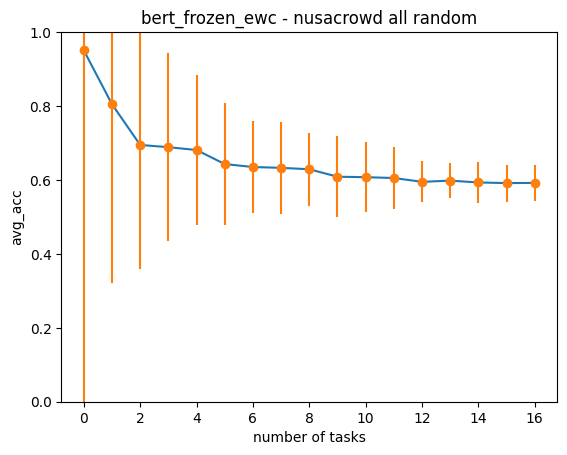
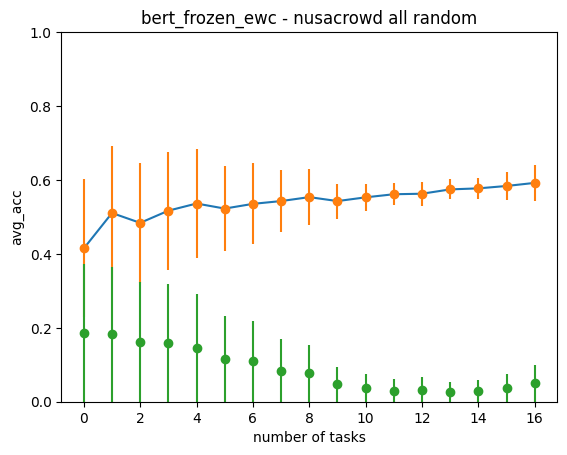
(FIXED) viz for combined backbones in 1 graph

diff --git a/src/utils.py b/src/utils.py
@@ -551,65 +551,35 @@ def calculate(dataframe, type):
     std = dataframe.std(axis=1)
     return [std[i] for i in range(len(dataframe))]
 
-def create_viz(dataframe, title, legend, xlabel, ylabel, filename, list_exp_id):
-    dataframe.plot()
-    if 'lss' not in filename:
-        plt.ylim(0, 1)
-    # plt.show()
-    plt.close()
-
-    plt.plot(calculate(dataframe, "avg"), label=legend)
-    plt.errorbar([i for i in range(len(dataframe))], calculate(dataframe, "avg"), calculate(dataframe, "std"), fmt ='o')
+def create_viz(list_dataframe, title, legend, xlabel, ylabel, filename, list_exp_id):    
+    for dataframe in list_dataframe:
+        plt.errorbar([i for i in range(len(dataframe))], calculate(dataframe, "avg"), calculate(dataframe, "std"), fmt ='o')
+    
     plt.title(title.replace('_.txt', ''))
     plt.xlabel(xlabel)
     plt.ylabel(ylabel)
+    plt.legend(legend)
 
     if 'lss' not in filename:
         plt.ylim(0, 1)
 
     plt.savefig(filename, bbox_inches='tight')
-    # plt.show()
     plt.close()
-    
-    # print(dataframe)
-    # n = len(dataframe)
-  
-    # # bikin n dataframe
-    # df_avg = pd.DataFrame(columns=[i for i in range(n)])
-    # df_std = pd.DataFrame(columns=[i for i in range(n)])
-    
-    # for exp_id in list_exp_id:
-    #     df_avg[i] = calculate(dataframe[exp_id], "avg")
-    #     df_std[i] = calculate(dataframe[exp_id], "std")
-    
-    # # print(df_avg)    
-    # # print(df_std)
-    # plt.plot(df_avg)
-    # plt.title(title.replace('_.txt', ''))
-    # plt.errorbar(x=[i for i in range(17)], y=df_avg.iloc[:, 0], yerr=df_std.iloc[:, 0], fmt ='o')
-    
-    # if 'lss' not in filename:
-    #     plt.ylim(0, 1)
-    
-    # plt.savefig(filename, bbox_inches='tight')
-    # plt.show()
-    # plt.close()
         
-def merge_viz(dir_name, list_exp_id, backbone, baseline, case_name, metrics):
-  n = len(list_exp_id)
+def merge_viz(dir_name, list_exp_id, list_backbone, baseline, case_name, metrics): # perlu dimodif
+  list_df = []
+  for i in range (len(list_exp_id)):
+    n = len(list_exp_id[i])
 
-  # bikin n dataframe
-  df = pd.DataFrame(columns=list_exp_id)
+    # bikin n dataframe
+    df = pd.DataFrame(columns=list_exp_id[i])
 
-  for exp_id in list_exp_id:
-    df[exp_id] = pd.read_csv(get_filename(dir_name, exp_id, get_output(backbone, baseline, exp_id), metrics), sep="\s+", names=[exp_id])
+    for exp_id in list_exp_id[i]:
+        df[exp_id] = pd.read_csv(get_filename(dir_name, exp_id, get_output(list_backbone[i], baseline, exp_id), metrics), sep="\s+", names=[exp_id])
+        
+    list_df.append(df)
 
-  tasks_df = pd.read_csv(get_filename(dir_name, list_exp_id[0], get_output(backbone, baseline, list_exp_id[0]), "tasks"), sep="\s+", names=['Task'])
-
-  for i in range (len(tasks_df)):
-    tasks_df['Task'][i] = tasks_const[tasks_df['Task'][i]]
-
-  create_viz(df, f'{backbone}_{baseline} - {case_name}', tasks_df['Task'], 'number of tasks', metrics, f"viz/{backbone}_{baseline}/{backbone}_{baseline}_{'-'.join([str(i) for i in list_exp_id])}_{metrics}.png", list_exp_id)
+  create_viz(list_df, f'{baseline} - {case_name}', list_backbone, 'number of tasks', metrics, f"viz/{baseline}/{baseline}_{metrics}.png", list_exp_id)
 
 def calculate_avg_metrics(mat):
   avg_per_iter = []
@@ -662,23 +632,26 @@ def calculate_metrics(exp_id, backbone, baseline):
         csv_writer = csv.writer(fp, delimiter=',')
         csv_writer.writerow(result)
 
-def run_create_viz(backbone, baseline, title):
+def run_create_viz(list_backbone, baseline, title):
     list_exp = pd.read_csv('res/til_classification/list_experiments.csv',delimiter=',')
-    list_exp_id = list_exp[(list_exp['backbone'] == backbone) & (list_exp['baseline'] == baseline)]
+    
+    list_exp_id = []
+    for backbone in list_backbone:
+        list_exp_id.append(list_exp[(list_exp['backbone'] == backbone) & (list_exp['baseline'] == baseline)]['exp_id'].to_list())
     
     for metrics in ['avg_acc', 'avg_f1_macro', 'avg_lss']:
-        merge_viz('', list_exp_id['exp_id'].to_list(), backbone, baseline, title, metrics)
+        merge_viz('', list_exp_id, list_backbone, baseline, title, metrics)
             
 if __name__ == "__main__":
     list_exp = pd.read_csv('res/til_classification/list_experiments.csv',delimiter=',')
     
     # visualize an experiment
-    for index, row in list_exp.iterrows():
-        if row['exp_id'] >=70:
-            visualize('', row['exp_id'], f"res/til_classification/nusacrowd/{row['exp_id']} - {row['backbone']}_{row['baseline']}_.txt/{row['backbone']}_{row['baseline']}_.txt", 'nusacrowd_all_random', 'nusacrowd')
+    # for index, row in list_exp.iterrows():
+    #     if row['exp_id'] >=70:
+    #         visualize('', row['exp_id'], f"res/til_classification/nusacrowd/{row['exp_id']} - {row['backbone']}_{row['baseline']}_.txt/{row['backbone']}_{row['baseline']}_.txt", 'nusacrowd_all_random', 'nusacrowd')
     
     # create viz for backbone and baseline combination
-    # run_create_viz('bert_frozen', 'ewc', 'nusacrowd all random')
+    run_create_viz(['bert', 'bert_frozen'], 'one', 'nusacrowd all random')
     
     # recalculate an experiment
     # calculate_metrics(16, 'bert_frozen', 'ncl')
